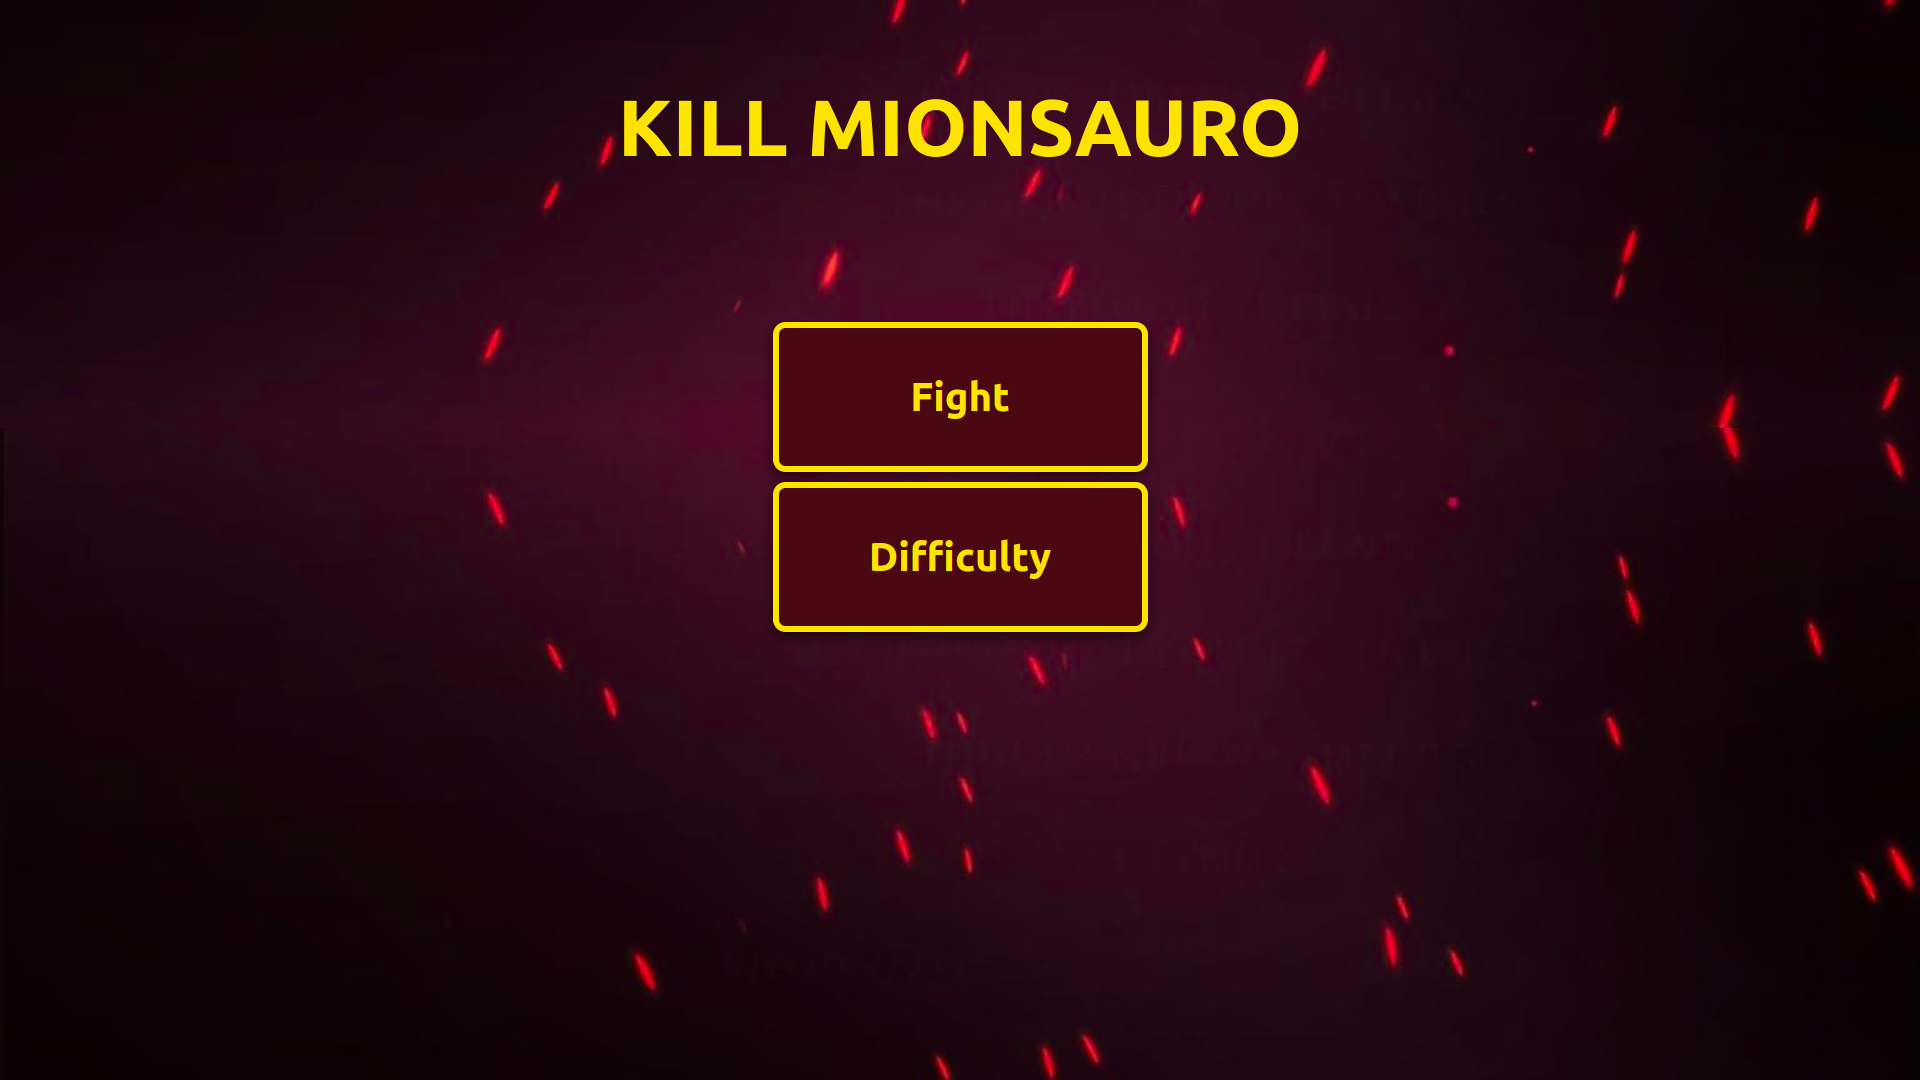
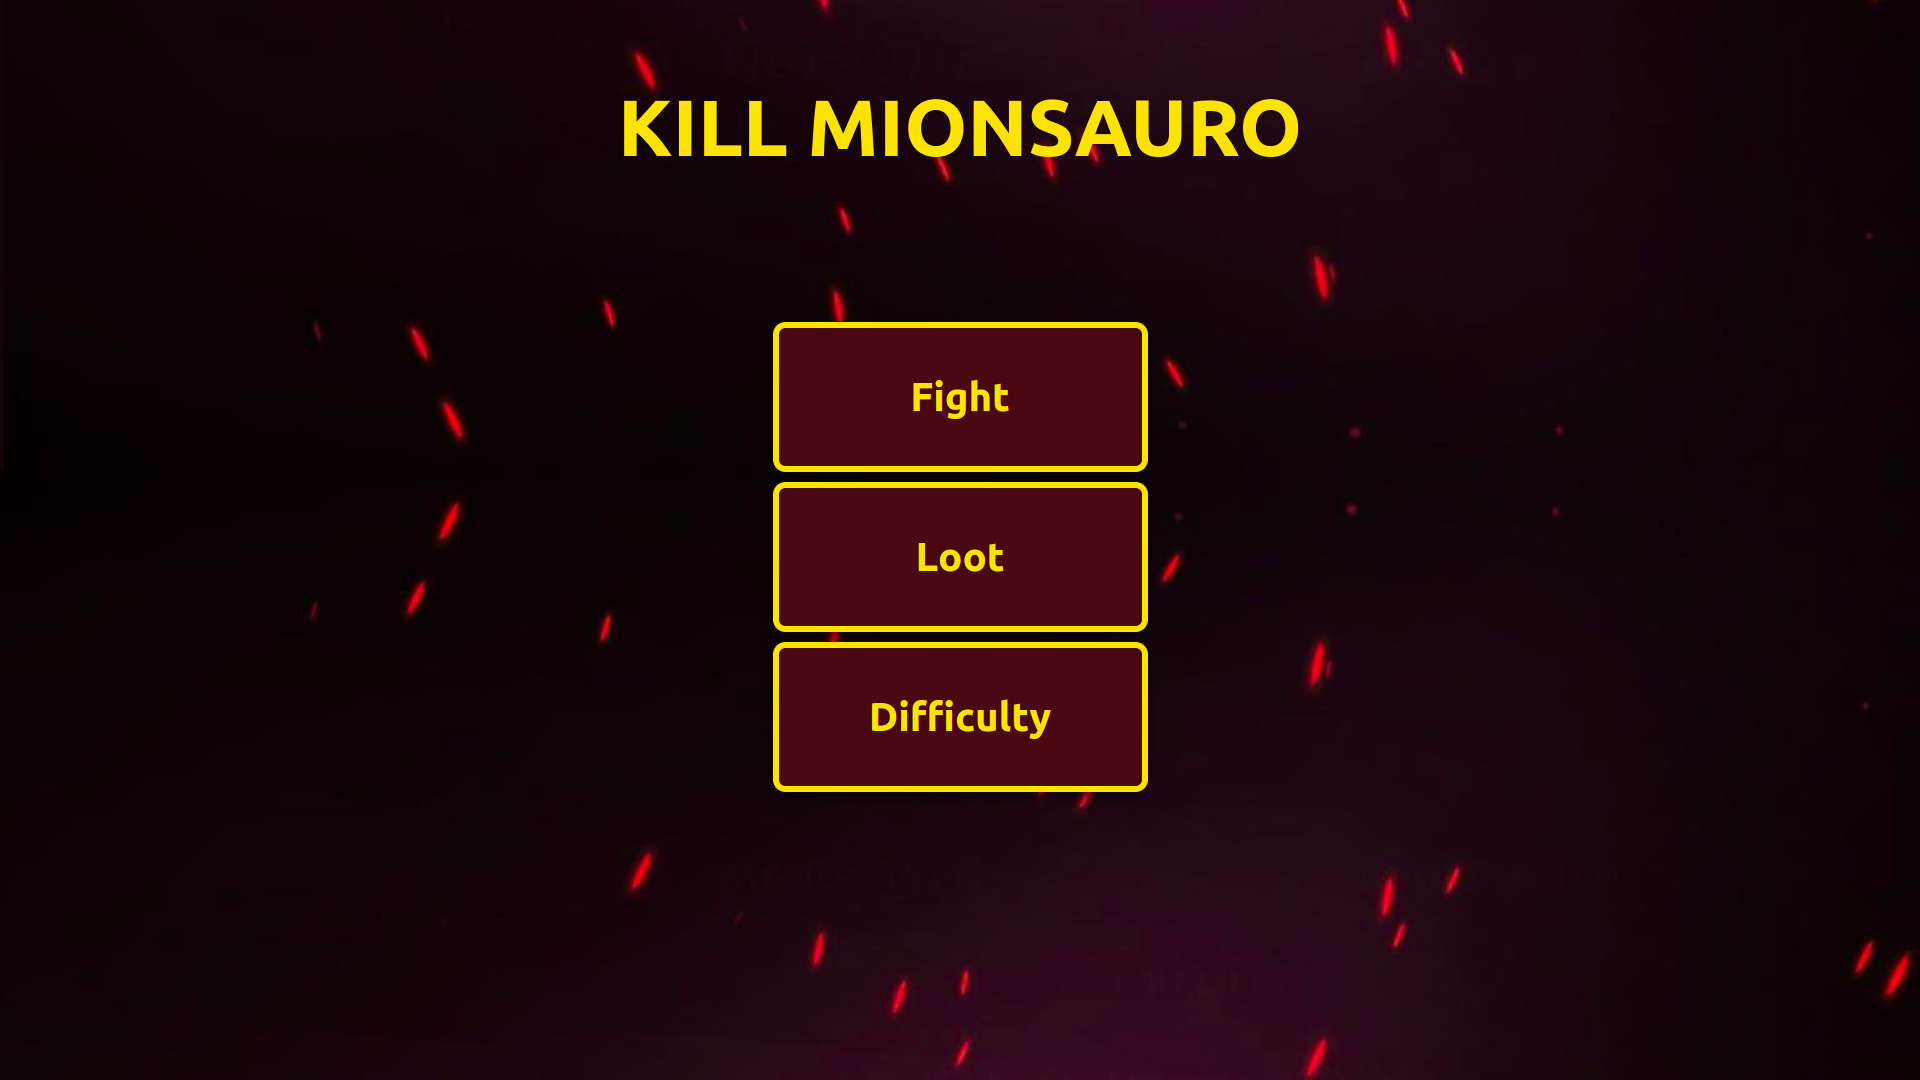
create README and add divide and conquer algorithm

diff --git a/src/pages/TreasureRoom/Index.tsx b/src/pages/TreasureRoom/Index.tsx
@@ -3,7 +3,7 @@ import { Treasure, getRandomLoot } from "../../utils/Treasures";
 import GlobalButton from "../../components/GlobalButton/Index";
 import { ButtonArea, Container, HeaderText, IconImage, IconText, LootGrid, LootTable, TableText, Variables } from "./Style";
 import TreasureCard from "../../components/TreasureCard/Index";
-import { knapsack } from "../../utils/Knapsack";
+import { knapsack, knapsackDivideAndConquer } from "../../utils/Knapsack";
 import { useNavigate } from "react-router-dom";
 import Modal from "../../components/Modal/Index";
 import { ModalText } from "../FightRoom/Style";
@@ -36,7 +36,7 @@ const TreasureRoom = () => {
             setMinutes(0);
             setSeconds(59);
         }
-    }
+    };
 
     const startTimer = () => {
         if (timerRef.current) {
@@ -45,7 +45,7 @@ const TreasureRoom = () => {
 
         const newTimer = setInterval(() => {
             setSeconds((prevSeconds) => prevSeconds - 1);
-        }, 1000); // Executa a função a cada 1 segundo
+        }, 1000);
 
         timerRef.current = newTimer;
     };
@@ -64,6 +64,7 @@ const TreasureRoom = () => {
     useEffect(() => {
         if (items.length > 0) {
             setBestLoot(knapsack(items, capacity));
+            // setBestLoot(knapsackDivideAndConquer(items, capacity, 0, items.length - 1));
             initialTime();
             startTimer();
         }
@@ -81,7 +82,7 @@ const TreasureRoom = () => {
 
     const Run = () => {
         navigate('./menu');
-    }
+    };
 
     const renderCards = () => {
         return (
@@ -97,7 +98,7 @@ const TreasureRoom = () => {
                 />
             ))
         )
-    }
+    };
 
     const toggleModal = () => {
         setShowModal(!showModal);
@@ -111,12 +112,12 @@ const TreasureRoom = () => {
     };
 
     const Loot = () => {
-        if (lootValue === bestLoot && lootWeight <= capacity) {
+        if (lootValue >= bestLoot && lootWeight <= capacity) {
             setSuccess(true);
         }
         stopTimer();
         toggleModal();
-    }
+    };
 
     return (
         <Container>

diff --git a/src/utils/Knapsack.ts b/src/utils/Knapsack.ts
@@ -1,5 +1,40 @@
 import { Treasure } from "./Treasures";
 
+//Divide and Conquer
+
+export const knapsackDivideAndConquer = (
+    items: Treasure[],
+    capacity: number,
+    start: number,
+    end: number,
+): number => {
+    if (start === end) {
+        if (items[start].weight <= capacity) {
+            return items[start].value;
+        } else {
+            return 0;
+        }
+    }
+
+    const mid = Math.floor((start + end) / 2);
+    const leftValue = knapsackDivideAndConquer(items, capacity, start, mid);
+    const rightValue = knapsackDivideAndConquer(items, capacity, mid + 1, end);
+
+    let maxValue = Math.max(leftValue, rightValue);
+
+    for (let i = start; i <= mid; i++) {
+        if (items[i].weight <= capacity) {
+            const remainingCapacity = capacity - items[i].weight;
+            const subProblemValue = knapsackDivideAndConquer(items, remainingCapacity, mid + 1, end);
+            maxValue = Math.max(maxValue, items[i].value + subProblemValue);
+        }
+    }
+
+    return maxValue;
+};
+
+//Dynamic Programing
+
 export const knapsack = (items: Treasure[], capacity: number): number => {
     const numItems = items.length;
     const dp: number[][] = [];
@@ -21,3 +56,4 @@ export const knapsack = (items: Treasure[], capacity: number): number => {
 
     return dp[numItems][capacity];
 };
+

diff --git a/src/pages/FightRoom/Index.tsx b/src/pages/FightRoom/Index.tsx
@@ -34,7 +34,7 @@ const FightRoom = () => {
 
         const newTimer = setInterval(() => {
             setSeconds((prevSeconds) => prevSeconds + 1);
-        }, 1000); // Executa a função a cada 1 segundo
+        }, 1000);
 
         timerRef.current = newTimer;
     };

diff --git a/README.md b/README.md
@@ -1,9 +1,9 @@
-# Greed_KillMionsauro
+# Greed_LootMionsauro
 
-# Kill Mionsauro
+# Loot Mionsauro
 
 **Número da Lista**: 45<br>
-**Conteúdo da Disciplina**: Greed<br>
+**Conteúdo da Disciplina**: Dividir e Conquistar<br>
 
 ## Alunos
 | Matrícula  | Aluno                       |
@@ -11,9 +11,11 @@
 | 17/0114929 | Thiago França Vale Oliveira |
 
 ## Sobre
-Kill Mionsauro é um jogo onde o jogador deve derrotar o dragão Mionsauro. O dragão possui uma barra de HP (pontos de vida) que deve ser removida completamente pelo jogador ao usar a combinação exata de ataques que a levarão a zero.
+Loot Mionsauro é um projeto feito a partir do projeto [Kill Mionsauro](https://github.com/projeto-de-algoritmos/Greed_KillMionsauro) de alforitmos gananciosos. Foi adcionado um novo modo de jogo baseado no problema do Knapsack, sendo resolvido usando os princípios de dividir e conquistar e programação dinamica.
 
-A vida do monstro e o poder dos ataques disponíveis são gerados aleatóriamente, e a partir desses valores é determinado a quantidade máxima de turnos usando o algoritmo de CoinChange. Dessa forma, o jogador precisa encontrar a combinação exata de ataques para derrotar o dragão, pois caso o os pontos de vida de Mionsauro fiquem negativos, o monstro ira curar toda a sua vida.
+Após derrotar o dragão, o jogador conseguiu acesso a sua sala de tesouros, porém não consegue carregar todos eles em sua pequena mochila. Tomado pela ganância causada pelo tesouro, o jogador não consegue deixar a sala sem ter certeza de que saqueou o máximo de riquezas o possível, mas deve ser rápido nesse saque, pois o dragão pode acordar e pegar o saqueador com as mão em seu tesouro.
+
+Cada tesouro possui um peso e valor específico, a missão do jogador é encontrar a combinação de tesouros (gerados aleatóriamente) que trará o maior saque o possível de acordo com sua capacidade máxima. O algoritmo determina qual o valor máximo que pode ser obtido e esse valor é indicado ao jogador que entra na sala de tesouros. Vale notar que o o tempo para que o dragão acorde també é indicado e caso o objetivo não seja alcançado a tempo, o jogador perde e poderá tentar novamente.
 
 ## Screenshots
 
@@ -21,13 +23,13 @@ A vida do monstro e o poder dos ataques disponíveis são gerados aleatóriament
 
 *Figura 1: Página inicial do site*
 
-<img src="./assets/BattleStart.png" alt="Tela de batalha" width="750" max-height="500"/>
+<img src="./assets/TreasureRoom.png" alt="Sala do tesouro" width="750" max-height="500"/>
 
-*Figura 2: Tela de batalha*
+*Figura 2: Sala do tesouro*
 
-<img src="./assets/Win.png" alt="Vitória na batalha" width="750" max-height="500"/>
+<img src="./assets/SuccessfullLoot.png" alt="Sucesso no saque" width="750" max-height="500"/>
 
-*Figura 3: Vitória na batalha*
+*Figura 3: Sucesso no saque*
 
 ## Vídeo de Apresentação
 
@@ -42,7 +44,7 @@ A vida do monstro e o poder dos ataques disponíveis são gerados aleatóriament
 Para clonar o repositório digite:
 
 ```console
-git clone https://github.com/projeto-de-algoritmos/Greed_KillMionsauro.git
+git clone https://github.com/projeto-de-algoritmos/DividirConquistar_LootMionsauro.git
 ```
 ### Instalando as dependências
 
@@ -67,6 +69,6 @@ npm start
 Após realizar esses passos, a plataforma estará rodando na [porta 3000](http://localhost:3000/)
 ## Uso 
 
-Para jogar basta selecionar a opção fight no menu inicial. Na batalha selecione os ataques e bole uma estratégia para derrotar o monstro dentro da quantidade máxima de turnos. Também é possível selecionar a dificuldade, que poderá adicionar alguns turnos extras permitindo novas combinações e uma margem de erro.
+Para jogar basta selecionar a opção loot no menu inicial. Na sala do tesouro, selecione os tesouros que trarão o melhor saque e pressione loot para finalizar o saque. Também é possível selecionar a dificuldade, que poderá adicionar tempo extra permitindo mais calma nas decisões e uma margem de erro.
 
 ## Outros 
